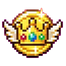
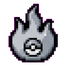
1.1.77 : 30 niveaux de dresseur et 30 badges (5 formes x 6 matieres)

diff --git a/Client/Combat/TrainerXp.cs b/Client/Combat/TrainerXp.cs
@@ -5,12 +5,12 @@ namespace AionDPS.Combat;
 
 /// <summary>
 /// The trainer's experience of the Monsters theme (Stacy, 2026-11-23): every point of damage the local player deals to a boss counts, for good (kept in a small file of the meter's data
-/// folder); each level costs more damage than the one before (<see cref="CostOf"/>), and the first <see cref="Badges"/> levels each have a badge of their own (the last one is the shining one).
+/// folder); each level costs more damage than the one before (<see cref="CostOf"/>), and the first <see cref="Badges"/> levels each have a badge of their own (the last one is the shining one): six materials, bronze to rainbow, of five shapes each.
 /// </summary>
 public sealed class TrainerXp
 {
     /// <summary>The damage to the bosses that each of the first levels costs (Stacy, 2026-11-23: "10 millions pour le premier, 50 pour le deuxième, 200 pour le troisième, et ça augmente
-    /// drastiquement"): from level 1 to 2, 2 to 3, and so on. After the tenth the cost keeps growing by 40 % a level, so more levels can follow.</summary>
+    /// drastiquement"): from level 1 to 2, 2 to 3, and so on. After the tenth the cost keeps growing by 20 % a level, up to the thirtieth and beyond.</summary>
     private static readonly long[] Costs = [10_000_000, 50_000_000, 200_000_000, 500_000_000, 1_000_000_000, 2_000_000_000, 3_500_000_000, 5_000_000_000, 7_500_000_000, 10_000_000_000];
 
     /// <summary>The damage that takes <paramref name="level"/> to the next one.</summary>
@@ -26,12 +26,12 @@ public sealed class TrainerXp
             return Costs[level - 1];
         }
 
-        double cost = Costs[^1] * Math.Pow(1.4, level - Costs.Length);
+        double cost = Costs[^1] * Math.Pow(1.2, level - Costs.Length);
         return (long)(Math.Round(cost / 100_000_000) * 100_000_000);
     }
 
-    /// <summary>The number of badges (one per level up to the tenth; the level after the tenth keeps the tenth badge).</summary>
-    public const int Badges = 10;
+    /// <summary>The number of badges (one per level up to the thirtieth; the levels after it keep the thirtieth badge).</summary>
+    public const int Badges = 30;
 
     private readonly string? _file;
     private DateTime _lastSave = DateTime.MinValue;

diff --git a/Client/Combat/SelfCheckSkin.cs b/Client/Combat/SelfCheckSkin.cs
@@ -163,7 +163,7 @@ public static class SelfCheckSkin
             File.Delete(xpFile);
             bool xp = !upNow && upThen && !upLate && notYet && upThird && trainer.Level == 3 && trainer.InLevel == 0 && trainer.CostOfLevel == 200_000_000
                 && Combat.TrainerXp.CostOf(1) == 10_000_000 && Combat.TrainerXp.CostOf(2) == 50_000_000 && Combat.TrainerXp.CostOf(3) == 200_000_000 && Combat.TrainerXp.CostOf(11) > Combat.TrainerXp.CostOf(10)
-                && Combat.TrainerXp.BadgeOf(1) == 1 && Combat.TrainerXp.BadgeOf(15) == 10 && reread.Total == 100_000_001 && reread.Level == 3 && reread.InLevel == 40_000_001
+                && Combat.TrainerXp.BadgeOf(1) == 1 && Combat.TrainerXp.BadgeOf(15) == 15 && Combat.TrainerXp.BadgeOf(99) == 30 && Combat.TrainerXp.Badges == 30 && Enumerable.Range(1, 30).All(n => File.Exists(Path.Combine(AppContext.BaseDirectory, "assets", "skins", "monstres", $"rang_{n}.png"))) && reread.Total == 100_000_001 && reread.Level == 3 && reread.InLevel == 40_000_001
                 && Math.Abs(reread.Progress - 0.200000005) < 1e-6 && !trainer.Add(-5);
             Console.WriteLine($"  -> the trainer's experience (levels, badges, file): {xp}");
             monstersSkin &= xp;

diff --git a/Client/Ui/MainWindow.xaml.cs b/Client/Ui/MainWindow.xaml.cs
@@ -1723,7 +1723,7 @@ public partial class MainWindow : Window
         {
             _xpShownBadge = badge;
             _xpBadge.Source = _xpSkin.Bitmap($"rang_{badge}.png");
-            // the tenth badge shines: a golden halo and a star that flashes (Stacy: "le dernier il est super stylé, il brille")
+            // the last badge (the thirtieth) shines: a golden halo and a star that flashes (Stacy: "le dernier il est super stylé, il brille")
             while (_xpBadgeHolder.Children.Count > 1)
             {
                 _xpBadgeHolder.Children.RemoveAt(1);

diff --git a/Client/assets/skins/monstres/README.md b/Client/assets/skins/monstres/README.md
@@ -25,5 +25,4 @@ Le meter en choisit une selon le jour de l'année, avec un pas différent pour c
 
 ## Les badges de rang (barre d'expérience du dresseur)
 
-`rang_1.png` à `rang_10.png` (66 × 66, pixel art, fond transparent ; dessinés par Gemini) : un badge par niveau, du 1er au 10e. Tous les 10 millions de dégâts faits aux boss, c'est un niveau de plus ; au-delà du niveau 10,
-le 10e badge reste. Le 10e brille tout seul (halo doré et étoile qui scintille). Pour les remplacer : même nom de fichier.
+`rang_1.png` à `rang_30.png` (66 × 66, pixel art, fond transparent ; dessinés par Gemini) : un badge par niveau, du 1er au 30e. Ils se lisent en grille de 5 colonnes × 6 lignes : la forme change de gauche à droite (rond, losange, étoile, bouclier, flamme), la matière de haut en bas (bronze, argent, or, platine, cristal, arc-en-ciel). Le niveau N est la ligne (N-1)/5, colonne (N-1)%5. Au-delà du niveau 30, le 30e badge reste. Le 30e brille tout seul (halo doré et étoile qui scintille). Pour les remplacer : même nom de fichier.

diff --git a/Client/assets/patch-notes/1.1.77.md b/Client/assets/patch-notes/1.1.77.md
@@ -1,0 +1,5 @@
+# 1.1.77
+
+## Thème Monstres
+- La barre d'expérience du dresseur passe à **30 niveaux**, avec **30 badges** : cinq formes (rond, losange, étoile, bouclier, flamme) dans six matières (bronze, argent, or, platine, cristal, arc-en-ciel). Le 30e badge brille.
+- Les 10 premiers niveaux coûtent toujours 10 M, 50 M, 200 M, 500 M, 1 Md, 2 Md, 3,5 Md, 5 Md, 7,5 Md et 10 Md de dégâts aux boss ; ensuite chaque niveau coûte 20 % de plus que le précédent.
